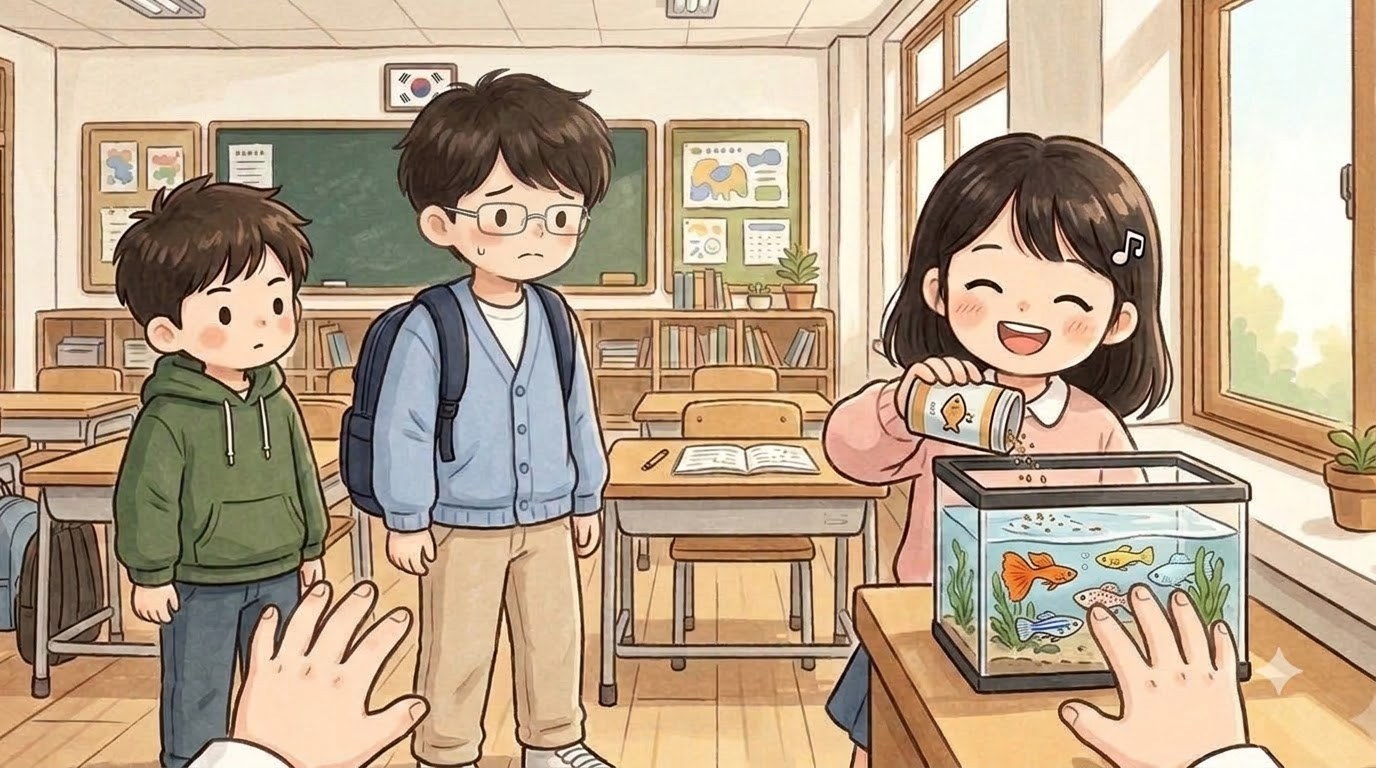
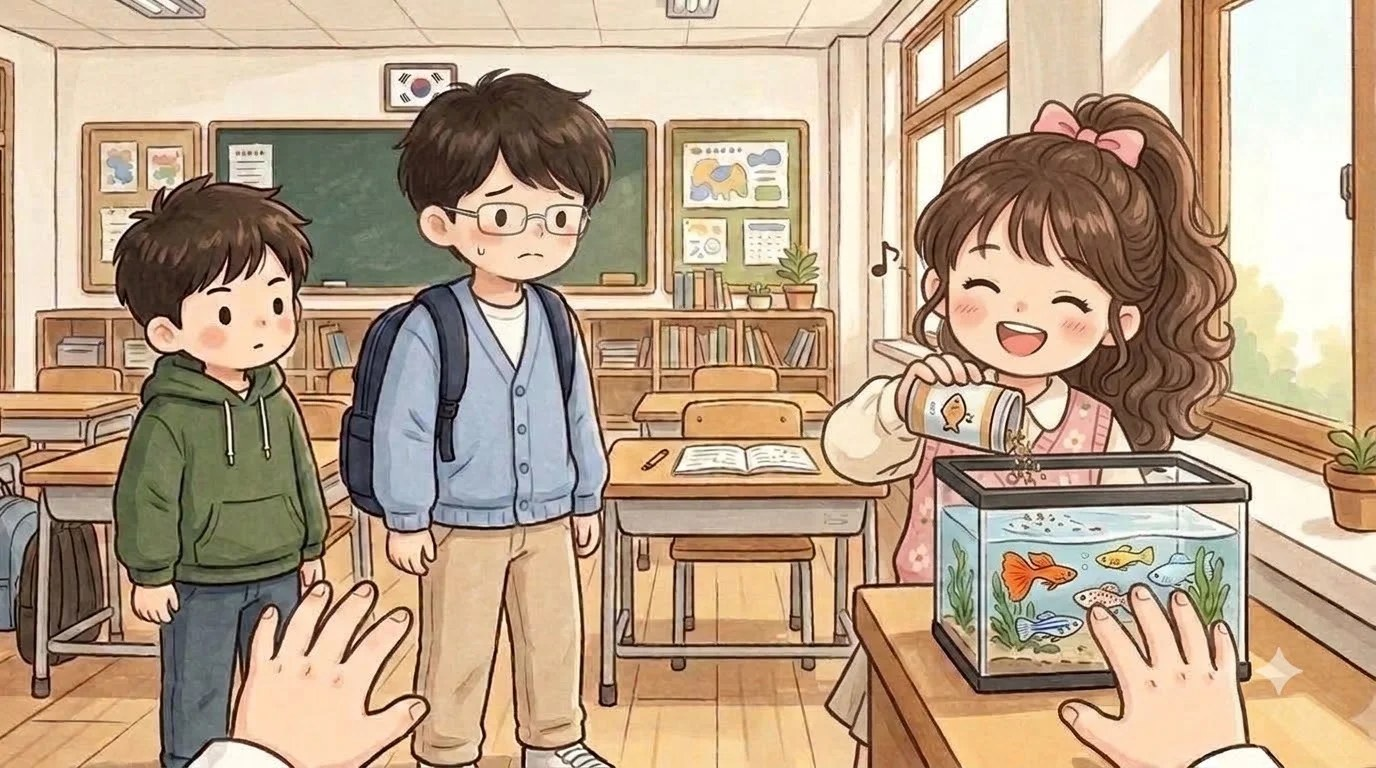
redraw: Yena in youngmin 02/02b (BUILD 1106193413)

diff --git a/index.html b/index.html
@@ -119,14 +119,14 @@ body,button{word-break:keep-all;overflow-wrap:break-word}
 <div id="fader"></div>
 <script>
 // same address, newest version: if the page this phone has kept is older than the one online, fetch the new one and reopen
-const BUILD='1106192906';
+const BUILD='1106193413';
 try{fetch(location.pathname,{cache:'no-store'}).then(r=>r.text()).then(t=>{const m=t.match(/const BUILD='(\d+)'/);if(m&&m[1]!==BUILD&&sessionStorage.getItem('upd')!==m[1]){sessionStorage.setItem('upd',m[1]);fetch(location.pathname,{cache:'reload'}).then(()=>location.reload())}}).catch(()=>{})}catch(e){}
 </script>
-<script src="i18n.js?v=1106192906"></script>
-<script src="i18n_prologue_v2.js?v=1106192906"></script>
-<script src="day2/i18n_engine.js?v=1106192906"></script>
-<script src="day2/data.js?v=1106192906"></script>
-<script src="day3/data.js?v=1106192906"></script>
+<script src="i18n.js?v=1106193413"></script>
+<script src="i18n_prologue_v2.js?v=1106193413"></script>
+<script src="day2/i18n_engine.js?v=1106193413"></script>
+<script src="day2/data.js?v=1106193413"></script>
+<script src="day3/data.js?v=1106193413"></script>
 <script>
 // ---------- data ----------
 const MW=1672,MH=941,KID=180;
@@ -545,32 +545,32 @@ function pickHero(){const m=document.getElementById('modal'),c=document.getEleme
  c.innerHTML=`<h2>${tr('전학생 반장되기')}</h2><p>${tr('한국말이 아직 서툰 전학생,<br>반장 선거에 나가다.')}</p><p style="margin-top:14px">${tr('누구로 할까요?')}</p>${(()=>{const s=loadSave();return s&&s.day>=2&&s.mode===UI+'-'+LANG?`<p><button class="big" id="cont">${tr('{n}일차부터 이어 하기').replace('{n}',s.day)}</button></p>`:''})()}<div class="pick heroes"><button data-h="hero_f"><img src="faces/hero_f_smile.jpg" alt="여자 주인공">${heroName(1)}</button><button data-h="hero_m"><img src="faces/hero_m_smile.jpg" alt="남자 주인공">${heroName(0)}</button></div>`;
  m.classList.add('on');{const cb=document.getElementById('cont');if(cb)cb.onclick=()=>{const s=loadSave();HERO=s.hero;Object.assign(HEART,s.heart||{});(s.found||[]).forEach(k=>FOUND.add(k));HEART_D1={...HEART};chime();(typeof contGame==='function'?contGame(s):startDay(Math.min(s.day,Object.keys(window.D3||{}).length?3:2)))}}c.querySelectorAll('.pick button').forEach(b=>b.onclick=()=>{HERO=b.dataset.h;m.classList.remove('on');chime();bgm('day');load('home_am');say([['nar','','이사 온 다음 날 아침. 아직 풀지 못한 상자들이 쌓여 있다.'],['think','sad','(오늘부터 새 학교야. 여기 말도 아직 서툰데…….)'],['think','smile','({m}한테 인사하고 학교 가야지.)']],morning)})}
 </script>
-<script src="day2/engine.js?v=1106192906"></script>
-<script src="day2/ep_minho.js?v=1106192906"></script>
-<script src="day2/meet.js?v=1106192906"></script>
-<script src="day2/ep_sua.js?v=1106192906"></script>
-<script src="day2/ep_hangyeol.js?v=1106192906"></script>
-<script src="day2/ep_siwoo.js?v=1106192906"></script>
-<script src="day2/ep_haram.js?v=1106192906"></script>
-<script src="day2/ep_jiho.js?v=1106192906"></script>
-<script src="day2/ep_hyeeun.js?v=1106192906"></script>
-<script src="day2/ep_haneul.js?v=1106192906"></script>
-<script src="day2/ep_junho.js?v=1106192906"></script>
-<script src="day2/ep_yuna.js?v=1106192906"></script>
-<script src="day2/ep_yena.js?v=1106192906"></script>
-<script src="day2/ep_haeun.js?v=1106192906"></script>
-<script src="day2/ep_youngmin.js?v=1106192906"></script>
-<script src="day2/ep_seah.js?v=1106192906"></script>
-<script src="day2/ep_jihoon.js?v=1106192906"></script>
-<script src="words_ja_ru.js?v=1106192906"></script>
-<script src="day2/mybag.js?v=1106192906"></script>
-<script src="day2/wordpics.js?v=1106192906"></script>
-<script src="day2/spots.js?v=1106192906"></script>
-<script src="day2/textfit.js?v=1106192906"></script>
-<script src="day2/tester.js?v=1106192906"></script>
-<script src="day2/ux.js?v=1106192906"></script>
-<script src="day2/tapword.js?v=1106192906"></script>
-<script src="day2/review.js?v=1106192906"></script>
+<script src="day2/engine.js?v=1106193413"></script>
+<script src="day2/ep_minho.js?v=1106193413"></script>
+<script src="day2/meet.js?v=1106193413"></script>
+<script src="day2/ep_sua.js?v=1106193413"></script>
+<script src="day2/ep_hangyeol.js?v=1106193413"></script>
+<script src="day2/ep_siwoo.js?v=1106193413"></script>
+<script src="day2/ep_haram.js?v=1106193413"></script>
+<script src="day2/ep_jiho.js?v=1106193413"></script>
+<script src="day2/ep_hyeeun.js?v=1106193413"></script>
+<script src="day2/ep_haneul.js?v=1106193413"></script>
+<script src="day2/ep_junho.js?v=1106193413"></script>
+<script src="day2/ep_yuna.js?v=1106193413"></script>
+<script src="day2/ep_yena.js?v=1106193413"></script>
+<script src="day2/ep_haeun.js?v=1106193413"></script>
+<script src="day2/ep_youngmin.js?v=1106193413"></script>
+<script src="day2/ep_seah.js?v=1106193413"></script>
+<script src="day2/ep_jihoon.js?v=1106193413"></script>
+<script src="words_ja_ru.js?v=1106193413"></script>
+<script src="day2/mybag.js?v=1106193413"></script>
+<script src="day2/wordpics.js?v=1106193413"></script>
+<script src="day2/spots.js?v=1106193413"></script>
+<script src="day2/textfit.js?v=1106193413"></script>
+<script src="day2/tester.js?v=1106193413"></script>
+<script src="day2/ux.js?v=1106193413"></script>
+<script src="day2/tapword.js?v=1106193413"></script>
+<script src="day2/review.js?v=1106193413"></script>
 <script>
 // the goal shows big for a few seconds, then folds into a small pill (tap it to open it again)
 {const g=document.getElementById('goal');let t=null;const big=()=>{g.classList.remove('mini');clearTimeout(t);t=setTimeout(()=>g.classList.add('mini'),4000)};
